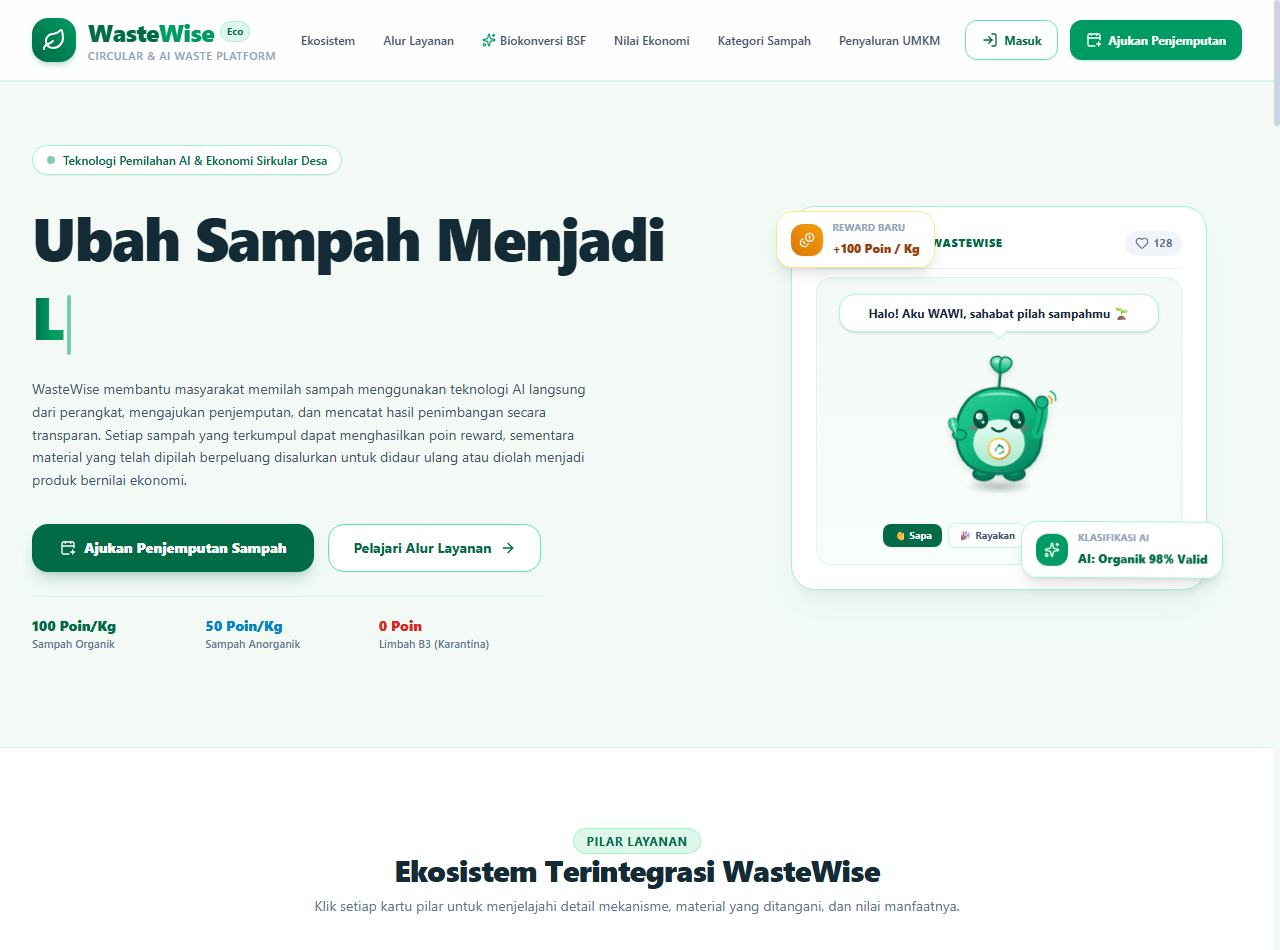
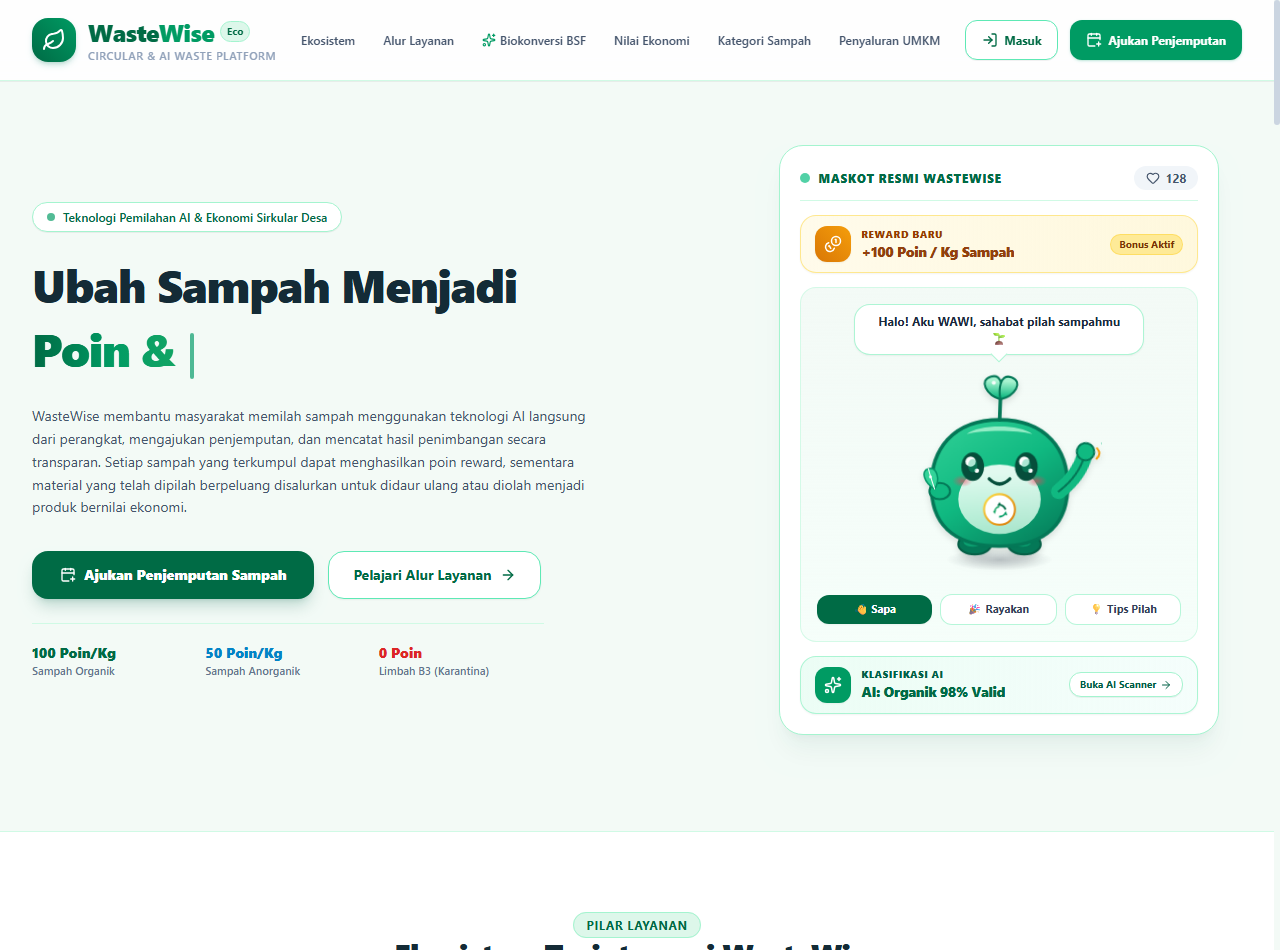
Improve WAWI mascot layout and hero section

diff --git a/src/components/mascot/HeroWawiCard.tsx b/src/components/mascot/HeroWawiCard.tsx
@@ -2,7 +2,7 @@
 
 import React, { useState } from 'react'
 import Link from 'next/link'
-import { Coins, Sparkles, Heart, Bot, HelpCircle, ArrowRight } from 'lucide-react'
+import { Coins, Sparkles, Heart, ArrowRight } from 'lucide-react'
 import { WawiCharacter, WawiMood } from './WawiCharacter'
 
 interface HeroWawiCardProps {
@@ -33,78 +33,108 @@ export function HeroWawiCard({ className = '' }: HeroWawiCardProps) {
   }
 
   return (
-    <div className={`relative w-full max-w-md p-3 sm:p-4 ${className}`}>
+    <div className={`relative w-full max-w-[440px] mx-auto ${className}`}>
       {/* Decorative ambient backdrop */}
-      <div className="absolute inset-2 sm:inset-3 bg-gradient-to-br from-[#DDF7EA] via-emerald-50 to-white rounded-3xl -rotate-2 scale-95 border border-emerald-200/80 shadow-md -z-10" />
+      <div className="absolute inset-1 sm:inset-2 bg-gradient-to-br from-[#DDF7EA] via-emerald-50 to-white rounded-3xl -rotate-1 scale-95 border border-emerald-200/80 shadow-md -z-10" />
 
       {/* Main Showcase Card Frame */}
-      <div className="relative w-full bg-white rounded-3xl border border-emerald-200 p-5 sm:p-6 shadow-xl shadow-emerald-900/5">
-        {/* Subtle Top Accent Ribbon */}
-        <div className="flex items-center justify-between pb-3 mb-2 border-b border-emerald-100/70">
+      <div className="relative w-full bg-white rounded-3xl border border-emerald-200 p-4 sm:p-5 shadow-xl shadow-emerald-900/5 flex flex-col gap-3.5">
+        
+        {/* 1. Header informasi WasteWise dan jumlah likes */}
+        <div className="flex items-center justify-between pb-2.5 border-b border-emerald-100">
           <div className="flex items-center gap-2">
             <span className="flex h-2.5 w-2.5 rounded-full bg-emerald-500 animate-pulse" />
-            <span className="text-[11px] font-extrabold uppercase tracking-wider text-[#006B45]">
+            <span className="text-xs font-black uppercase tracking-wider text-[#006B45]">
               Maskot Resmi WasteWise
             </span>
           </div>
           <button
+            type="button"
             onClick={handleHeartClick}
-            className={`flex items-center gap-1 text-[11px] font-bold px-2.5 py-1 rounded-full transition-all duration-200 ${
+            className={`flex items-center gap-1.5 text-xs font-bold px-3 py-1 rounded-full transition-all duration-200 ${
               isLoved
                 ? 'bg-rose-100 text-rose-700 shadow-xs scale-105'
-                : 'bg-slate-100 text-slate-500 hover:bg-rose-50 hover:text-rose-600'
+                : 'bg-slate-100 text-slate-600 hover:bg-rose-50 hover:text-rose-600'
             }`}
-            title="Beri cinta untuk Wawi"
+            title="Beri apresiasi untuk WAWI"
           >
             <Heart className={`h-3.5 w-3.5 ${isLoved ? 'fill-rose-500 text-rose-500' : ''}`} />
             <span>{heartsCount}</span>
           </button>
         </div>
 
-        {/* Mascot Center Stage with Speech Bubble */}
-        <div className="relative h-[310px] sm:h-[340px] w-full rounded-2xl bg-gradient-to-b from-[#F3FAF6] to-emerald-50/40 border border-emerald-100/90 flex flex-col items-center justify-between p-3.5 sm:p-4 overflow-hidden">
-          {/* Speech Bubble */}
-          <div className="relative z-10 w-full max-w-[270px] bg-white/95 backdrop-blur-xs rounded-2xl border border-emerald-200/80 px-3 py-2 shadow-sm text-center transition-all duration-300 animate-fade-in shrink-0">
+        {/* 2. Kartu Reward Baru (Posisi Normal Flow / Bebas Tabrakan) */}
+        <div className="w-full bg-gradient-to-r from-amber-50 to-amber-100/60 border border-amber-200/90 rounded-2xl p-2.5 sm:px-3.5 sm:py-2.5 flex items-center justify-between gap-3 shadow-xs">
+          <div className="flex items-center gap-2.5 min-w-0">
+            <div className="h-9 w-9 rounded-xl bg-gradient-to-tr from-[#D97706] to-[#F59E0B] flex items-center justify-center text-white shadow-xs shrink-0">
+              <Coins className="h-4.5 w-4.5" />
+            </div>
+            <div className="truncate text-left">
+              <span className="text-[10px] font-extrabold text-amber-800 uppercase tracking-wider block">
+                Reward Baru
+              </span>
+              <span className="text-xs sm:text-sm font-black text-[#92400E] tracking-tight block">
+                +100 Poin / Kg Sampah
+              </span>
+            </div>
+          </div>
+          <span className="text-[10px] font-bold bg-amber-200/80 text-amber-900 px-2 py-0.5 rounded-full shrink-0 border border-amber-300/50">
+            Bonus Aktif
+          </span>
+        </div>
+
+        {/* Area Panggung Maskot & Tombol Interaksi */}
+        <div className="relative w-full rounded-2xl bg-gradient-to-b from-[#F3FAF6] to-emerald-50/50 border border-emerald-100/90 p-3.5 sm:p-4 flex flex-col items-center justify-between gap-3 overflow-hidden">
+          
+          {/* 3. Bubble Sapaan WAWI */}
+          <div className="relative z-10 w-full max-w-[290px] bg-white rounded-2xl border border-emerald-200/90 px-3.5 py-2 shadow-xs text-center">
             <p className="text-xs font-bold text-slate-800 leading-snug">
               {speech}
             </p>
             {/* Bubble Tail */}
-            <div className="absolute -bottom-1.5 left-1/2 -translate-x-1/2 w-3 h-3 bg-white border-b border-r border-emerald-200/80 rotate-45" />
+            <div className="absolute -bottom-1.5 left-1/2 -translate-x-1/2 w-3 h-3 bg-white border-b border-r border-emerald-200/90 rotate-45" />
           </div>
 
-          {/* Central Interactive WAWI Character (Enlarged & Dominant) */}
-          <div className="my-auto cursor-pointer transition-transform hover:scale-105 active:scale-95 flex items-center justify-center" onClick={() => handleMoodChange(mood === 'happy' ? 'wave' : 'happy', 'Asyik! Kamu mengklik WAWI! 🎉')}>
+          {/* 4. Karakter WAWI (Tetap Besar, Dominan & Proporsional: size 205) */}
+          <div
+            className="my-1 cursor-pointer transition-transform hover:scale-105 active:scale-95 flex items-center justify-center"
+            onClick={() => handleMoodChange(mood === 'happy' ? 'wave' : 'happy', 'Asyik! Kamu menyapa WAWI! 🎉')}
+            title="Klik WAWI untuk bereaksi!"
+          >
             <WawiCharacter mood={mood} size={205} />
           </div>
 
-          {/* Interactive Mood Reaction Buttons */}
-          <div className="relative z-10 flex items-center justify-center gap-1.5 w-full pt-1 shrink-0">
+          {/* 5. Tombol Interaksi (Sapa, Rayakan, Tips Pilah) */}
+          <div className="relative z-10 flex items-center justify-center gap-2 w-full pt-0.5">
             <button
+              type="button"
               onClick={() => handleMoodChange('wave', 'Halo! Senang bertemu denganmu di WasteWise! 👋')}
-              className={`px-2.5 py-1 rounded-lg text-[10px] font-bold transition-all ${
+              className={`flex-1 py-1.5 px-2 rounded-xl text-[11px] font-bold transition-all text-center ${
                 mood === 'wave'
                   ? 'bg-[#006B45] text-white shadow-xs'
-                  : 'bg-white/80 hover:bg-white text-slate-600 border border-emerald-200/60'
+                  : 'bg-white hover:bg-emerald-50 text-slate-700 border border-emerald-200/80'
               }`}
             >
               👋 Sapa
             </button>
             <button
+              type="button"
               onClick={() => handleMoodChange('happy', 'Hore! Setiap pilahan sampah menyelamatkan bumi! 🌟')}
-              className={`px-2.5 py-1 rounded-lg text-[10px] font-bold transition-all ${
+              className={`flex-1 py-1.5 px-2 rounded-xl text-[11px] font-bold transition-all text-center ${
                 mood === 'happy'
                   ? 'bg-[#009B63] text-white shadow-xs'
-                  : 'bg-white/80 hover:bg-white text-slate-600 border border-emerald-200/60'
+                  : 'bg-white hover:bg-emerald-50 text-slate-700 border border-emerald-200/80'
               }`}
             >
               🎉 Rayakan
             </button>
             <button
-              onClick={() => handleMoodChange('thinking', 'Hmm... Jangan campur botol plastik dengan sisa sayur ya! 💡')}
-              className={`px-2.5 py-1 rounded-lg text-[10px] font-bold transition-all ${
+              type="button"
+              onClick={() => handleMoodChange('thinking', 'Hmm... Jangan campur botol plastik dan sisa makanan ya! 💡')}
+              className={`flex-1 py-1.5 px-2 rounded-xl text-[11px] font-bold transition-all text-center ${
                 mood === 'thinking'
                   ? 'bg-amber-600 text-white shadow-xs'
-                  : 'bg-white/80 hover:bg-white text-slate-600 border border-emerald-200/60'
+                  : 'bg-white hover:bg-emerald-50 text-slate-700 border border-emerald-200/80'
               }`}
             >
               💡 Tips Pilah
@@ -112,27 +142,29 @@ export function HeroWawiCard({ className = '' }: HeroWawiCardProps) {
           </div>
         </div>
 
-        {/* Floating Badge Top-Left: +100 Poin Organik */}
-        <div className="absolute top-2 -left-2 sm:-left-4 bg-white/95 backdrop-blur-xs rounded-2xl border border-amber-200 px-3.5 py-2 shadow-lg flex items-center gap-2.5 animate-float z-20">
-          <div className="h-8 w-8 rounded-xl bg-gradient-to-tr from-[#D97706] to-[#F59E0B] flex items-center justify-center text-white shadow-xs">
-            <Coins className="h-4 w-4" />
+        {/* 6. Informasi Klasifikasi AI (Posisi Normal Flow di Bawah Panggung) */}
+        <div className="w-full bg-gradient-to-r from-emerald-50 to-teal-50/70 border border-emerald-200/90 rounded-2xl p-2.5 sm:px-3.5 sm:py-2.5 flex items-center justify-between gap-3 shadow-xs">
+          <div className="flex items-center gap-2.5 min-w-0">
+            <div className="h-9 w-9 rounded-xl bg-[#009B63] flex items-center justify-center text-white shadow-xs shrink-0">
+              <Sparkles className="h-4.5 w-4.5" />
+            </div>
+            <div className="truncate text-left">
+              <span className="text-[10px] font-extrabold text-emerald-800 uppercase tracking-wider block">
+                Klasifikasi AI
+              </span>
+              <span className="text-xs sm:text-sm font-black text-[#006B45] tracking-tight block">
+                AI: Organik 98% Valid
+              </span>
+            </div>
           </div>
-          <div className="text-left">
-            <span className="text-[10px] font-bold text-slate-400 block uppercase">Reward Baru</span>
-            <span className="text-xs font-black text-[#92400E]">+100 Poin / Kg</span>
-          </div>
+          <Link href="/warga/klasifikasi" className="shrink-0">
+            <span className="text-[10px] font-bold text-emerald-800 hover:text-emerald-950 bg-white border border-emerald-200 px-2.5 py-1 rounded-xl flex items-center gap-1 transition-all shadow-2xs hover:shadow-xs">
+              Buka AI Scanner
+              <ArrowRight className="h-3 w-3" />
+            </span>
+          </Link>
         </div>
 
-        {/* Floating Badge Bottom-Right: AI Classifier Valid */}
-        <div className="absolute bottom-2 -right-2 sm:-right-4 bg-white/95 backdrop-blur-xs rounded-2xl border border-emerald-200 px-3.5 py-2 shadow-lg flex items-center gap-2.5 animate-float-slow z-20">
-          <div className="h-8 w-8 rounded-xl bg-[#009B63] flex items-center justify-center text-white shadow-xs">
-            <Sparkles className="h-4 w-4" />
-          </div>
-          <div className="text-left">
-            <span className="text-[10px] font-bold text-slate-400 block uppercase">Klasifikasi AI</span>
-            <span className="text-xs font-black text-[#006B45]">AI: Organik 98% Valid</span>
-          </div>
-        </div>
       </div>
     </div>
   )
